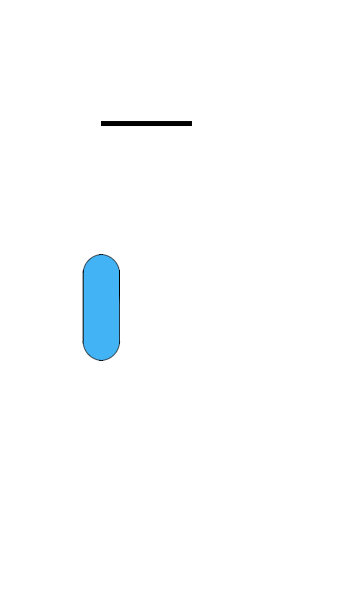
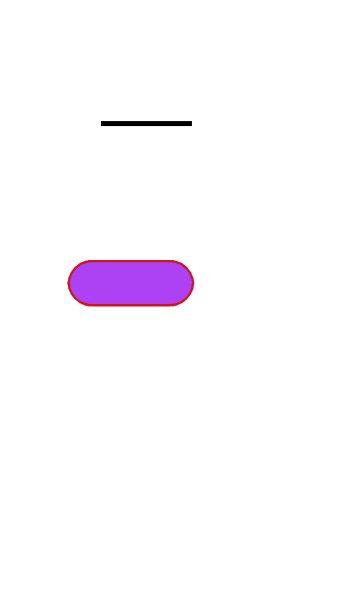
Line Issue Solve

Changed region(s): [[0.1749, 0.4049, 0.5831, 0.5918]]

diff --git a/AnimationProject/wwwroot/js/animations.js b/AnimationProject/wwwroot/js/animations.js
@@ -5656,6 +5656,15 @@ canvas.addEventListener("click", function onCanvasClick(e) {
     else {
         document.getElementById("divCurvature").style.display = 'none';
     }
+    if (activeImage && activeImage.isLINESvg) {
+        document.getElementById("divFillColor").style.display = 'none';
+        document.getElementById("divStrokeCheck").style.display = 'none';
+        
+    }
+    else {
+        document.getElementById("divFillColor").style.display = 'block';
+        document.getElementById("divStrokeCheck").style.display = 'block';
+    }
 });
 function applyImagePaintToUI(imgHit) {
     if (!imgHit) return;
@@ -7350,6 +7359,9 @@ function ChangeStrockColor() {
     if (noStrokeBox) noStrokeBox.checked = false;
 
     const strokeWidth = parseFloat(document.getElementById("ddlStrokeWidth")?.value) || 2;
+    if (target.isLINESvg) {
+        $("#hdnfillColor").val(newStroke);
+    }
 
     // Keep same logic for fill: if fill 'no color' is checked, send "none"
     const fillValue = noFillChecked ? "none" : ($("#hdnfillColor").val() || "#000");
@@ -7465,6 +7477,7 @@ function strokeWidthChanges() {
                 activeImage.y = Math.max(0, H - activeImage.height);
             }
         }
+        $("#hdnfillColor").val($("#hdnStrockColor").val());
     }
 
     // compute fill/stroke respecting "no color" checkboxes
